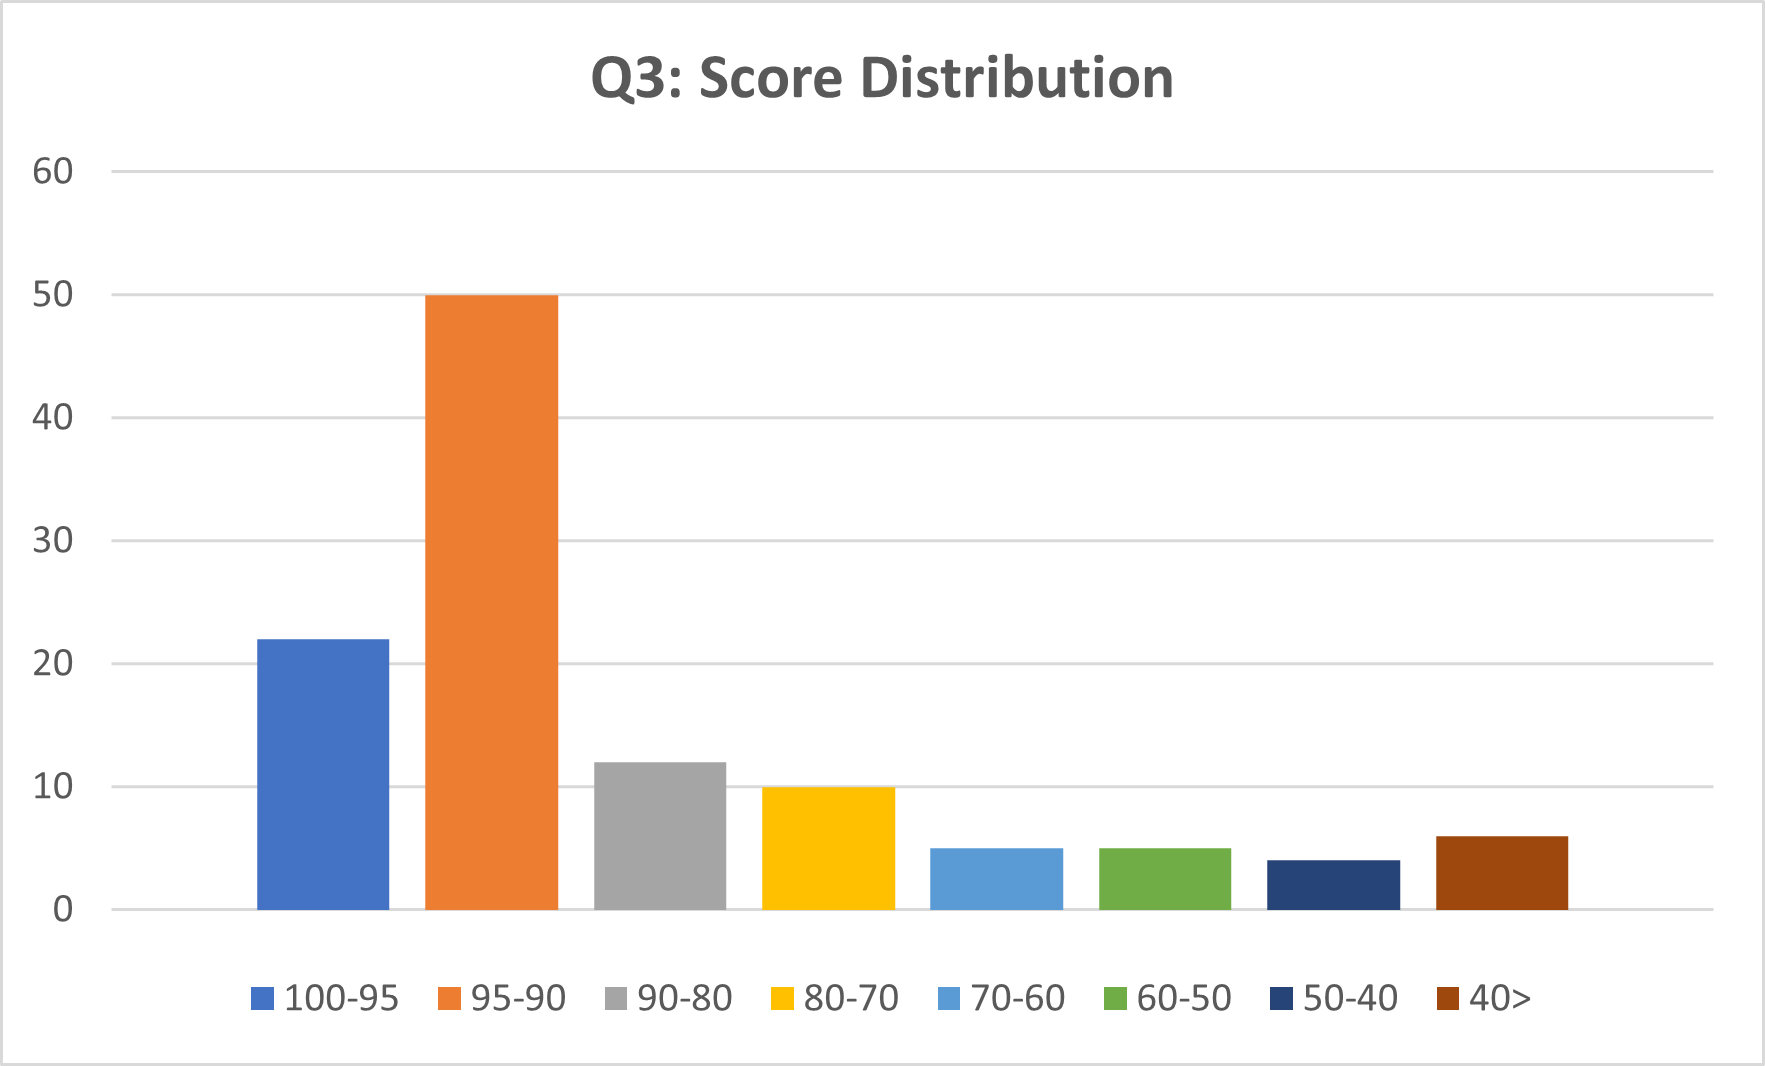
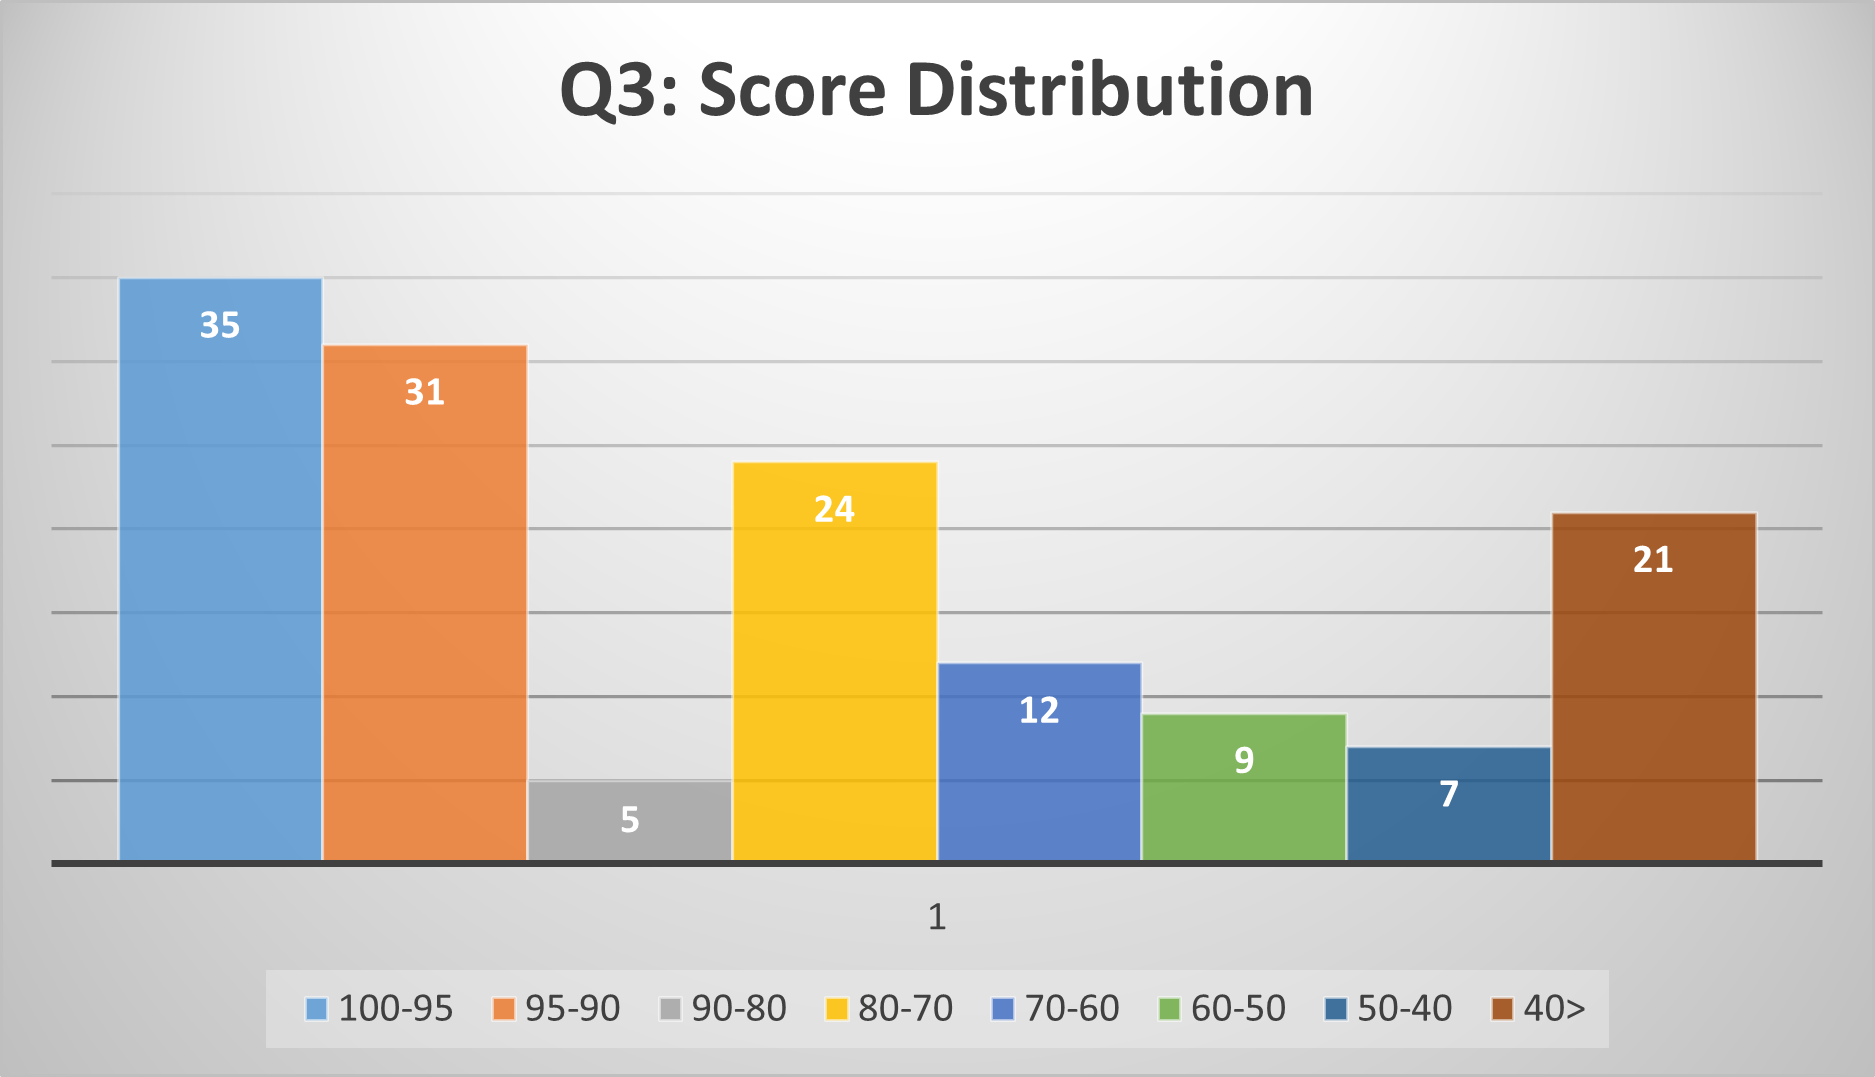
update

diff --git a/tutorial/CLASS/M08/mod08_plotting_example.m b/tutorial/CLASS/M08/mod08_plotting_example.m
@@ -1,0 +1,36 @@
+load mod08_data
+
+avg_low = mod08_data(:,1);
+avg_high = mod08_data(:,2);
+
+figure(1);
+
+plot(1:12,avg_low, '-bo', ...
+    'LineWidth', 2, ...
+    'MarkerSize', 6, ...
+    'MarkerEdgeColor', 'b'); hold on;
+
+plot(1:12,avg_high, '-go', ...
+    'LineWidth', 2, ...
+    'MarkerSize', 6, ...
+    'MarkerEdgeColor', 'r')
+
+[~, I] = max(avg_high);
+
+text(I+0.1, avg_high(I)+1.5, 'Peak Temp', ...
+    'FontSize' , 10, ...
+    'FontWeight', 'bold', ... 
+    'HorizontalAlignment', 'left'); hold off;
+
+xlim([1 12]);
+xticks(1:12);
+xticklabels({'Jan', 'Feb', 'Mar', 'Apr', 'May', 'Jun', 'Jul', 'Aug', 'Sep', 'Oct', 'Nov', 'Dec'});
+
+legend('\bf Annual lows', 'Annual highs',  'Location', 'northwest', 'FontSize', 15);
+set(gca, 'Fontsize', 13, 'FontWeight', 'bold');
+set(gca, 'LineWidth', 2);
+set(gcf, 'Position', [100 100 1000 600]);
+
+xlabel('\bf Month', 'fontsize', 15);
+ylabel('\bf Temperature (Degrees)', 'fontsize', 18);
+title('Average Temperature in Waterloo (Chul Min)', 'fontsize', 20);

diff --git a/tutorial/PREA/M11.m b/tutorial/PREA/M11.m
@@ -1,0 +1,20 @@
+% Question 1
+seq = "MATLAB IS FUN! I Like IT";
+m11_q1 = count(seq, 'A');
+
+% Question 2
+var2 = {'red', 'blue', 'red', 'orange', 'blue'};
+m11_q2 = sum(strcmp(var2, 'red'));
+
+% Question 3
+var3 = 'abcdefgabcdeabcdeabcfsetsdgabcdegqidmsabc';
+m11_q3 = strfind(var3, 'abc');
+
+% Question 4
+fname = ["Ju An", "Chul Min", "Noreen", "Vlad", "Jason"];
+lname = ["Park", "Yeum", "Gao", "Fierastrau", "Connelly"];
+
+lg = fname == "Chul Min";
+lname_CM = lname(lg);
+
+m11_q4 = lname_CM + ", " + "Chul Min";

diff --git a/doc/Q3_Feedback_Answer.md b/doc/Q3_Feedback_Answer.md
@@ -1,0 +1,58 @@
+# Feedback Review for Quiz 3
+
+## Q3 Score Distribution
+![](img/q3_score_dist.png)
+
+**Class average: 71.97**
+
+## Results
+All 64 students responded to the survey and the results are presented below: 
+
+### Q1. How did you feel about your first Quiz #3? Note that the target overall average is 70~75 (not 75~80).
+![](img/q3_graph1.png)
+### Q2. How do you feel about the course overall?
+![](img/q3_graph2.png)
+
+I found this quiz to be far harder than the others, I am expecting my grade to be 20-25% lower despite preparing about the same amount. A big issue for me today was time, despite finishing the other two 15+ mins early. I hope the final test will be more similar to the first two rather than the third test.
+
+**The Kahoot sessions are inconsistent.**
+
+I feel kinda stupid because I forgot what a median was
+
+I felt like I didn't have time to think..I didn't even get a chance to read the last question. I understand the logic but I'm not fast enough.
+
+bruh it’s so hard
+
+Questions on the test were very related to the assignment and practice questions, overall seemed fair.
+
+I think the quizzes are a good representation and expectation for student evaluation. It's just me personally, I find I don't have enough time to practice as many tutorial questions as I would like. Since I was not able to do all the tutorial questions, I got most of my value from helps sessions with TA's and practicing the quizzes and homework
+
+Very difficult
+
+it was good
+
+I liked the help session, you should hold more for the other modules
+quiz #3 was harder than I expected, but wasn't unreasonable
+
+**the questions on quiz 3 were not similar to the ones we did in the lab, tutorial, homework**
+
+Good difficulty with good timing
+
+Can we get some partial marks for Word Finer puzzle question
+The course is going well so far. All content is easy to understand, and the practice we get through labs and tutorial problems helps solve quiz questions adequately.
+
+**I don't think it's fair that Quiz 3 was made harder on account of us having a higher average than expected**
+
+Is the extra online engagement mark one for each month? or it doesn’t matter as long as I post 4 discussion posts throughout the term
+
+I really liked Violets power point about the word search problem. That question was very hard for me to understand and I actually got my code to pass the tester thanks to what I learned from the power point. Also, I have posted a question for each month so far in the course, I was wondering if there was someway I could see that I have gotten my bonus marks for sure? Thanks!!!!!
+
+I understood how to solve all the Qs on the quiz (even Q6), however, I messed up on the syntax for the function declaration (e.g. newmat2d = [ ]) and so I only got Q1 right (it passed the checks while others weren't able to sadly) and caused the most issues with my code due to getting very lengthy and messy on occasions. I realise this was due to a bit too less practice over the exact syntax applications for the code, however, I hope the logic and comments made are able to let me get a decent score.
+
+
+## Advice to the Students 
+* Please read the course syllabus and quiz instruction carefully. Please read them before taking the quiz.
+* **Please review homework, lab, and previous quizzes thoroughly.**
+* Remember that the quiz problems are designed on the assumption that you complete homework and tutorial problems.
+* If you want to review model answers for quizzes or homework, please ask TAs to review your scripts and show the answers.   
+* To get prepared for the quizzes, you are able to solve all tutorial and homework assignments following [the study guideline](https://github.com/chulminy/AE_ENVE_GEOE_121#tutorial).

diff --git a/README.md b/README.md
@@ -4,7 +4,7 @@
 |:--------|:-----------|
 |<img src="doc/img/civil_engineer.png" height="200">|**Instructor:** Chul Min Yeum (cmyeum@uwaterloo.ca) <br> **TA 1:** Ethan Woo (ethan.woo@uwaterloo.ca) <br> **TA 2:** Violet Cotton (violet.cotton@uwaterloo.ca) <br><br> **Class (AE121):** Mon & Tue (2:00 to 3:30 PM) at CPH 3604  <br> **Programming Lab (AE121):** Thu (12:30 to 3:20 PM) at CPH 1346 <br> <br> **Class (ENVE/GEOE121):** Mon & Wed (11:00 to 12:30 PM) at RCH 305<br> **Programming Lab (ENVE/GEOE121):** Fri (2:30 to 5:20 PM) at CPH 1346 <br> <br> **Office hours (TA)**: Visit the WEEF TA office (E2 1787) <br> **Office hours (Instructor)**: By appointment|
 
-**Last updated:** 2022-07-03  
+**Last updated:** 2022-07-04  
 
 **Previous offerings of this course**
 - [**Computational Method (Winter, 2022)**](old/w2022)
@@ -28,6 +28,7 @@
 - [**Kahoot**](tutorial/KAHOOT)   
 
 **Course**  
+- July 18: Course feedback (11th Week): [Link](doc/Q3_Feedback_Answer.md)  
 - June 28: Instruction for Quiz 3: [Link](doc/Quiz3_Description.md)  
 - June 20: Course feedback (7th Week): [Link](doc/Q2_Feedback_Answer.md)  
 - May 31: Instruction for Quiz 2: [Link](doc/Quiz2_Description.md)  
@@ -35,7 +36,8 @@
 - May 10: Instruction for Quiz 1: [Link](doc/Quiz1_Description.md)  
 
 ## Announcement
-* **June 27, 2022:** For ENVE/GEOE students, LAB 06 will be held on July 4 at 4:30pm (CPH 1346) because the lab on July 1 is canceled.   
+* **July 18, 2022:** Q3 problems are posted.
+* **July 18, 2022:** Q3 feedback review is posted [here](doc/Q3_Feedback_Answer.md).  
 
 
 ## Course Schedule
